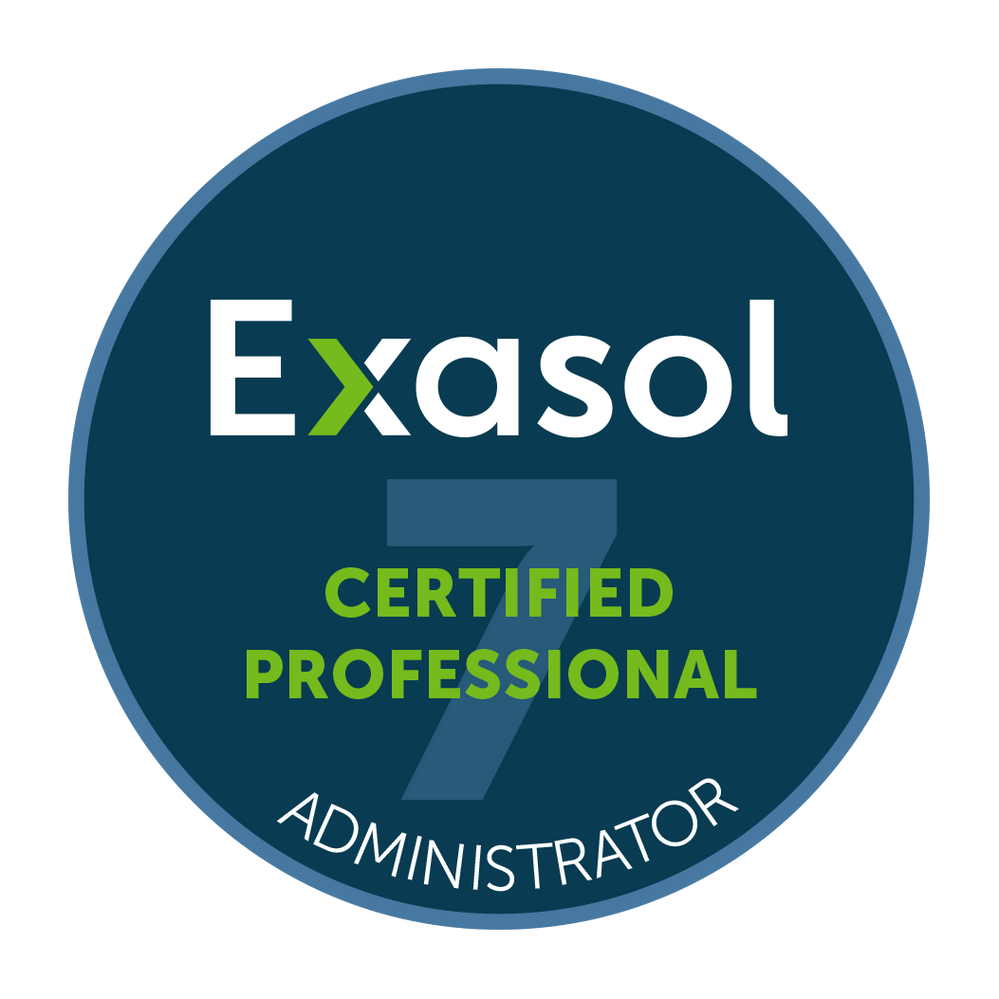
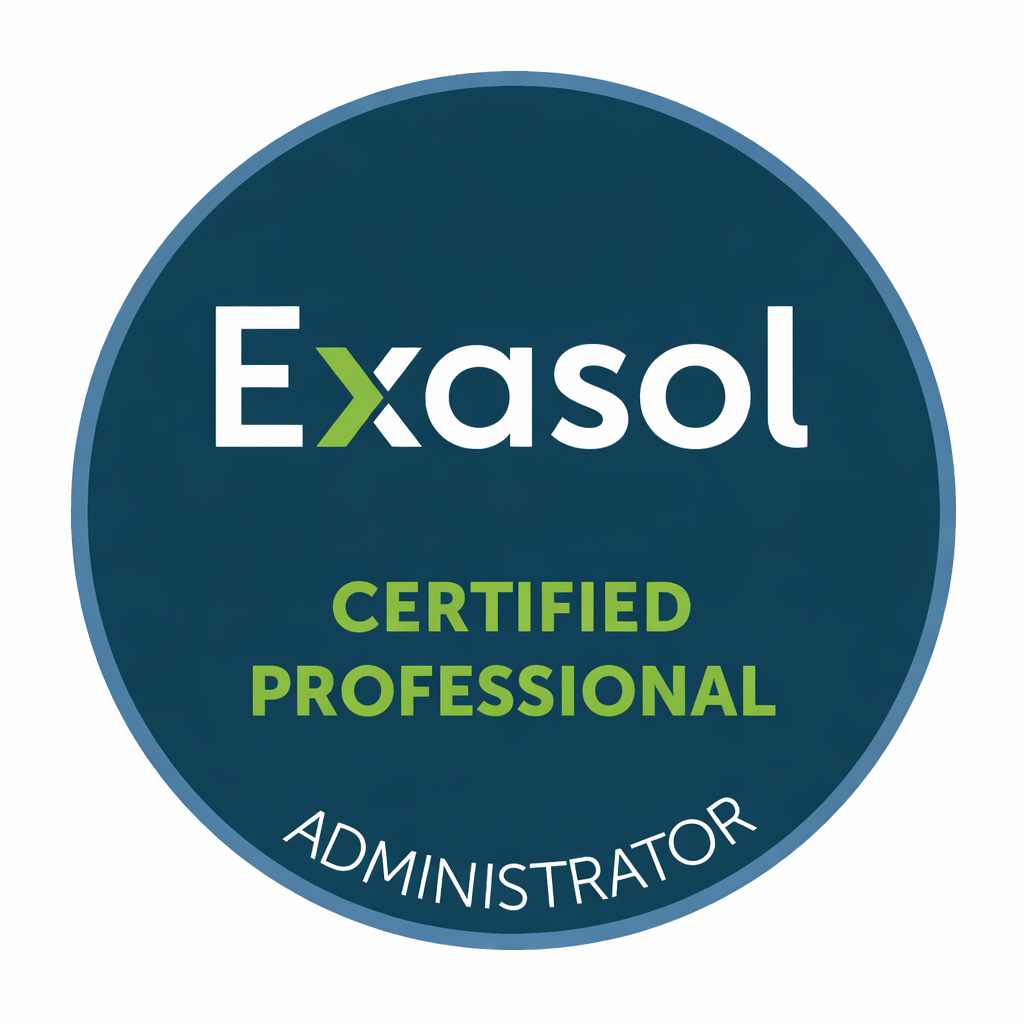
Update training badge

diff --git a/Support-and-Services/training-badge-7-professional-administrator.md b/Support-and-Services/training-badge-7-professional-administrator.md
@@ -1,6 +1,6 @@
-# Training Badge - Exasol 7 Certified Professional Administrator
+# Training Badge - Exasol Certified Professional Administrator
 
-You may download and use the badge on this page according to the terms listed below if you passed the current online exam **Exasol 7 Certified Professional Administrator** or if you hold a formerly granted certificate as "Exasol 6 Certified Professional Administrator" or as “Exasol Certified Administrator”  (Issued before 2020, now retired) and you passed the Certification Upgrade Exam.
+You may download and use the badge on this page according to the terms listed below if you passed the current online exam **Exasol Certified Professional Administrator** or if you hold a formerly granted certificate as "Exasol 6 Certified Professional Administrator" or as “Exasol Certified Administrator”  (Issued before 2020, now retired) and you passed the Certification Upgrade Exam.
 
 ![Professional Administrator](images/ECP7_Administrator.png)
 
